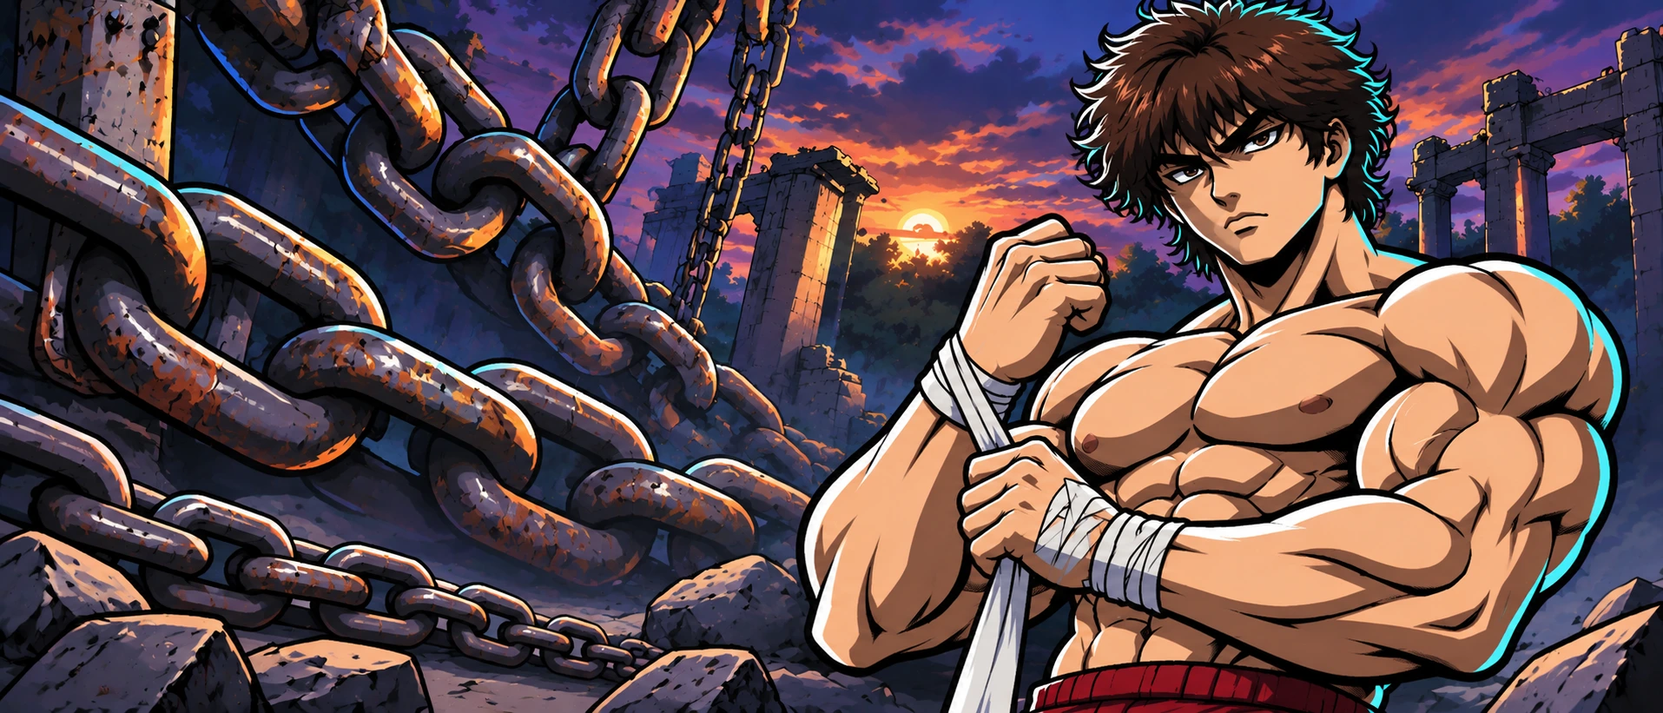
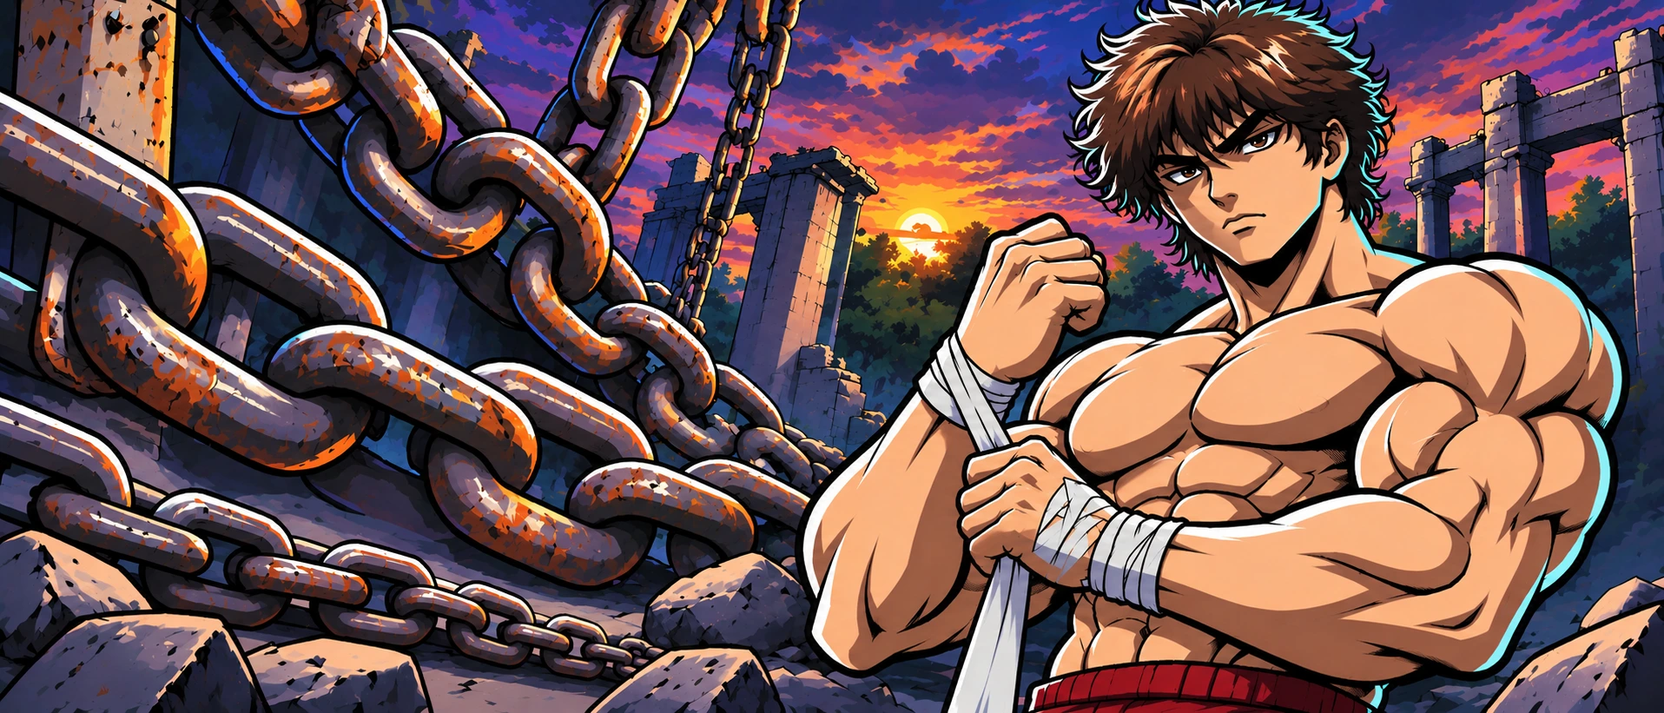
fix hero and website color theme

diff --git a/styles/site.css b/styles/site.css
@@ -1,13 +1,15 @@
 :root {
   color-scheme: dark;
-  --bg: #08090c;
-  --surface: #111318;
-  --surface-2: #191c24;
-  --text: #f5f5f7;
-  --muted: #a8afbd;
-  --accent: #456bfa;
-  --ice: #96c9ff;
-  --line: rgb(165 185 221 / 16%);
+  --bg: #070911;
+  --surface: #101423;
+  --surface-2: #171d32;
+  --text: #f5f7ff;
+  --muted: #a6b2cc;
+  --accent: #3f46f5;
+  --cyan: #25e8ff;
+  --violet: #a82ffc;
+  --ice: #6be8ff;
+  --line: rgb(115 170 255 / 18%);
   --mono: ui-monospace, SFMono-Regular, Consolas, "Liberation Mono", monospace;
   --header-height: 70px;
   font-family: "IBM Plex Sans Thai", "Segoe UI", "Noto Sans Thai", "Leelawadee UI", sans-serif;
@@ -29,15 +31,15 @@ img { display: block; max-width: 100%; }
 h1, h2, h3, p { margin: 0; }
 h1, h2, h3 { line-height: 1.08; }
 [hidden] { display: none !important; }
-:focus-visible { outline: 2px solid #b1d8ff; outline-offset: 4px; }
+:focus-visible { outline: 2px solid var(--cyan); outline-offset: 4px; }
 :is(main, h1, h2, section)[tabindex="-1"]:focus { outline: none; }
-::selection { background: #38549c; color: white; }
+::selection { background: #6b2cf5; color: white; }
 .wrap { width: min(89%, 1320px); margin-inline: auto; }
 .skip, .sr-only { position: absolute; width: 1px; height: 1px; padding: 0; overflow: hidden; clip-path: inset(50%); white-space: nowrap; }
-.skip:focus { clip-path: none; width: auto; height: auto; top: 6px; left: 10px; padding: 8px 16px; border-radius: 4px; background: #18213c; z-index: 30; }
+.skip:focus { clip-path: none; width: auto; height: auto; top: 6px; left: 10px; padding: 8px 16px; border-radius: 4px; background: #1c2247; z-index: 30; }
 .icon { width: 1.12rem; height: 1.12rem; display: inline-block; flex: none; fill: none; stroke: currentColor; stroke-width: 1.65; stroke-linecap: round; stroke-linejoin: round; }
-.site-header { position: sticky; top: 0; z-index: 10; background: rgb(8 10 15 / 96%); border-bottom: 1px solid rgb(164 182 217 / 10%); transition: background .25s; }
-.site-header.scrolled { background: rgb(8 10 15 / 93%); backdrop-filter: blur(16px); }
+.site-header { position: sticky; top: 0; z-index: 10; background: rgb(7 9 18 / 95%); border-bottom: 1px solid rgb(70 185 255 / 15%); transition: background .25s; }
+.site-header.scrolled { background: rgb(7 9 18 / 92%); backdrop-filter: blur(16px); }
 .header-inner { height: var(--header-height); display: grid; grid-template-columns: 1fr auto 1fr; align-items: center; gap: 20px; }
 .brand { display: inline-flex; align-items: center; gap: 10px; justify-self: start; width: fit-content; font-size: 1.42rem; line-height: 1; letter-spacing: -.06em; font-weight: 690; }
 .brand img { width: 56px; height: 52px; object-fit: contain; }
@@ -52,41 +54,41 @@ h1, h2, h3 { line-height: 1.08; }
 .primary-nav { gap: clamp(20px, 2.7vw, 44px); height: 100%; }
 .primary-nav a { position: relative; height: 100%; display: flex; align-items: center; font-size: .88rem; font-weight: 520; color: #a0a5b1; transition: color .2s; }
 .primary-nav a:hover, .primary-nav a[aria-current] { color: var(--text); }
-.primary-nav a[aria-current]::after { content: ""; width: 18px; height: 2px; background: #709aff; position: absolute; bottom: 12px; left: calc(50% - 9px); border-radius: 2px; }
+.primary-nav a[aria-current]::after { content: ""; width: 22px; height: 2.5px; background: linear-gradient(90deg, var(--cyan), var(--violet)); position: absolute; bottom: 12px; left: calc(50% - 11px); border-radius: 2px; box-shadow: 0 0 10px rgb(37 232 255 / 45%); }
 .header-actions { gap: 6px; justify-self: end; }
-.search-shortcut { display: inline-flex; align-items: center; justify-content: center; min-height: 36px; padding: 4px 8px 4px 12px; gap: 9px; border: 1px solid var(--line); background: #101217; border-radius: 6px; color: #c8cbd4; font-size: .82rem; }
-.search-shortcut:hover { border-color: #53607a; }
-.search-shortcut .icon { width: 15px; height: 15px; }
-.search-shortcut kbd { display: grid; place-items: center; min-width: 18px; height: 21px; border: 1px solid #353844; border-radius: 3px; color: #a6acb8; font: .75rem var(--mono); }
+.search-shortcut { display: inline-flex; align-items: center; justify-content: center; min-height: 36px; padding: 4px 8px 4px 12px; gap: 9px; border: 1px solid var(--line); background: #0d1222; border-radius: 6px; color: #cfd8ec; font-size: .82rem; transition: border-color .2s, box-shadow .2s; }
+.search-shortcut:hover { border-color: var(--cyan); box-shadow: 0 0 12px rgb(37 232 255 / 18%); }
+.search-shortcut .icon { width: 15px; height: 15px; color: var(--cyan); }
+.search-shortcut kbd { display: grid; place-items: center; min-width: 18px; height: 21px; border: 1px solid #2e3a5c; border-radius: 3px; color: #9ab2d8; font: .75rem var(--mono); }
 .icon-btn { display: grid; place-items: center; width: 44px; height: 44px; }
 .menu-toggle { display: none; }
 section[id], #main-content { scroll-margin-top: var(--header-height); }
-.hero { position: relative; overflow: hidden; isolation: isolate; background: #0c1420; border-bottom: 1px solid var(--line); }
+.hero { position: relative; overflow: hidden; isolation: isolate; background: #0a1022; border-bottom: 1px solid var(--line); }
 .hero-art, .hero-shade { position: absolute; inset: 0; z-index: -1; pointer-events: none; }
 .hero-art img { width: 100%; height: 100%; object-fit: cover; object-position: 64% 30%; animation: artwork-in .48s ease-out both; }
-.hero-shade { background: linear-gradient(0deg, rgb(7 10 16 / 95%) 0%, rgb(7 10 16 / 34%) 16%, transparent 44%), linear-gradient(90deg, rgb(5 9 16 / 94%) 0%, rgb(6 11 20 / 83%) 25%, rgb(6 12 22 / 45%) 44%, rgb(6 12 22 / 4%) 65%, transparent 88%); }
+.hero-shade { background: linear-gradient(0deg, rgb(7 9 17 / 96%) 0%, rgb(7 9 17 / 36%) 18%, transparent 46%), linear-gradient(90deg, rgb(6 8 18 / 95%) 0%, rgb(8 11 26 / 84%) 26%, rgb(10 14 32 / 46%) 45%, rgb(10 14 32 / 5%) 66%, transparent 88%); }
 .hero-inner { min-height: clamp(500px, 36.8vw, 670px); display: flex; flex-direction: column; position: relative; }
 .hero-copy { flex: 1 0 auto; display: flex; flex-direction: column; justify-content: center; align-items: flex-start; padding: clamp(42px, 3.4vw, 74px) 0 30px; animation: copy-in .55s ease-out both; }
 .eyebrow, .mono-caption, .scroll-cue, .card-meta, .result-count { font-family: var(--mono); }
-.eyebrow { display: flex; align-items: center; gap: 11px; color: #93b7fc; font-size: .74rem; font-weight: 590; line-height: 1.4; letter-spacing: .135em; text-transform: uppercase; }
-.rule { display: inline-block; width: 26px; height: 2px; border-radius: 3px; background: #699aff; }
-.hero-kicker { color: #a5caff; }
-.hero-kicker .divider-slash { opacity: .6; font-weight: 400; }
-.hero h1 { margin-top: 20px; font-size: clamp(4.5rem, 6.35vw, 7.3rem); line-height: .99; font-weight: 650; letter-spacing: -.066em; color: #f5f6f7; }
-.hero h1 span { color: #99beff; background: linear-gradient(105deg,#cbd9ff -4%,#95baff 46%,#709be9 100%); background-clip: text; -webkit-background-clip: text; -webkit-text-fill-color: transparent; }
+.eyebrow { display: flex; align-items: center; gap: 11px; color: var(--cyan); font-size: .74rem; font-weight: 590; line-height: 1.4; letter-spacing: .135em; text-transform: uppercase; }
+.rule { display: inline-block; width: 26px; height: 2.5px; border-radius: 3px; background: linear-gradient(90deg, var(--cyan), var(--violet)); }
+.hero-kicker { color: #74eeff; }
+.hero-kicker .divider-slash { color: #c06bff; opacity: .9; font-weight: 600; }
+.hero h1 { margin-top: 20px; font-size: clamp(4.5rem, 6.35vw, 7.3rem); line-height: .99; font-weight: 650; letter-spacing: -.066em; color: #f5f7ff; }
+.hero h1 span { color: #74eeff; background: linear-gradient(100deg, #ffffff 0%, #6be8ff 34%, #4f6bff 62%, #b742ff 100%); background-clip: text; -webkit-background-clip: text; -webkit-text-fill-color: transparent; filter: drop-shadow(0 2px 18px rgb(168 47 252 / 24%)); }
 .hero h1:lang(th) { line-height: 1.12; letter-spacing: -.025em; }
 .hero h1 { font-weight: 700; }
 .mono-caption, .concept-note { font-family: "IBM Plex Sans Thai", var(--mono); }
 .hero h1 span:lang(en) { letter-spacing: -.066em; }
 .about h2:lang(th) { line-height: 1.25; letter-spacing: -.02em; }
-.hero-description { max-width: 465px; margin-top: 20px; color: #c3cad5; font-size: clamp(1rem, 1.17vw, 1.23rem); line-height: 1.6; }
+.hero-description { max-width: 465px; margin-top: 20px; color: #c7d2e8; font-size: clamp(1rem, 1.17vw, 1.23rem); line-height: 1.6; }
 .hero-actions { display: flex; flex-wrap: wrap; gap: 12px; margin-top: 25px; }
-.btn { display: inline-flex; align-items: center; justify-content: center; gap: 10px; min-height: 45px; padding: 10px 19px; border-radius: 6px; border: 1px solid transparent; font-weight: 600; font-size: .91rem; line-height: 1.4; transition: background .18s, border-color .18s, transform .18s; }
+.btn { display: inline-flex; align-items: center; justify-content: center; gap: 10px; min-height: 45px; padding: 10px 19px; border-radius: 6px; border: 1px solid transparent; font-weight: 600; font-size: .91rem; line-height: 1.4; transition: background .18s, border-color .18s, transform .18s, box-shadow .18s; }
 .btn .icon { width: 16px; height: 16px; }
-.btn-primary { color: #fff; border-color: #6482ff; background: linear-gradient(140deg, #526ff8, #3855dd); box-shadow: 0 3px 18px rgb(42 77 213 / 15%); }
-.btn-primary:hover { background: linear-gradient(140deg,#6383ff,#4866ec); }
-.btn-secondary { color: #eef1f8; border-color: #4f596b; background: rgb(21 28 40 / 67%); }
-.btn-secondary:hover { background: #232d40; border-color: #8291ad; }
+.btn-primary { color: #fff; border-color: #4dcfff; background: linear-gradient(135deg, #1cb5f6 0%, #4348f7 52%, #9d2efc 100%); box-shadow: 0 4px 20px rgb(79 72 247 / 32%), 0 0 12px rgb(37 232 255 / 18%); }
+.btn-primary:hover { border-color: #8cf2ff; background: linear-gradient(135deg, #37c5ff 0%, #555af9 50%, #b147ff 100%); box-shadow: 0 6px 24px rgb(157 46 252 / 42%), 0 0 16px rgb(37 232 255 / 28%); }
+.btn-secondary { color: #eef4ff; border-color: rgb(88 184 255 / 42%); background: rgb(16 22 42 / 72%); }
+.btn-secondary:hover { background: #1a2547; border-color: var(--cyan); box-shadow: 0 0 14px rgb(37 232 255 / 20%); }
 .hero-base { display: flex; align-items: flex-end; justify-content: space-between; gap: 16px; padding: 0 0 25px; }
 .scroll-cue { display: inline-flex; align-items: center; gap: 10px; min-height: 38px; font-size: .69rem; text-transform: uppercase; letter-spacing: .13em; color: #b0b9ca; }
 .scroll-cue:hover { color: #eaf1ff; }
@@ -106,40 +108,40 @@ section[id], #main-content { scroll-margin-top: var(--header-height); }
 .section-space { padding: clamp(46px, 3.7vw, 68px) 0 clamp(50px, 4.6vw, 90px); }
 .section-heading { display: flex; justify-content: space-between; align-items: flex-end; gap: 20px; margin-bottom: 24px; }
 .section-heading h2, .about h2 { font-size: clamp(2.25rem, 3.05vw, 3.6rem); font-weight: 610; letter-spacing: -.055em; margin-top: 8px; }
-.period { color: #769afb; }
-.text-link { display: inline-flex; align-items: center; justify-content: center; min-height: 40px; gap: 9px; font-size: .88rem; color: #c2c9d7; font-weight: 520; }
-.text-link .icon { width: 15px; height: 15px; color: #94add3; }
+.period { color: var(--violet); }
+.text-link { display: inline-flex; align-items: center; justify-content: center; min-height: 40px; gap: 9px; font-size: .88rem; color: #c8d4ec; font-weight: 520; }
+.text-link .icon { width: 15px; height: 15px; color: var(--cyan); }
 .text-link:hover { color: #fff; text-decoration: underline; text-underline-offset: 5px; }
 .feature-grid, .archive-grid { display: grid; grid-template-columns: repeat(3, minmax(0, 1fr)); gap: clamp(18px, 1.8vw, 32px); row-gap: 40px; }
 .mod-card, .mod-card a { min-width: 0; }
 .card-link { display: block; border-radius: 8px; }
 .card-visual { aspect-ratio: 1.88; position: relative; overflow: hidden; isolation: isolate; border-radius: 9px; background: var(--surface-2); box-shadow: inset 0 0 0 1px var(--line); }
-.card-visual::after { content: ""; position: absolute; inset: 0; pointer-events: none; border-radius: inherit; border: 1px solid rgb(223 233 255 / 14%); background: linear-gradient(180deg, rgb(5 8 12 / 16%), transparent 33%, transparent 65%, rgb(5 8 12 / 25%)); transition: background-color .25s; }
+.card-visual::after { content: ""; position: absolute; inset: 0; pointer-events: none; border-radius: inherit; border: 1px solid rgb(120 215 255 / 18%); background: linear-gradient(180deg, rgb(6 9 18 / 16%), transparent 33%, transparent 65%, rgb(6 9 18 / 28%)); transition: background-color .25s, border-color .25s; }
 .card-visual img { width: 100%; height: 100%; object-fit: cover; transition: transform .5s cubic-bezier(.2,.74,.35,1); }
-.category-tag { position: absolute; z-index: 1; top: 13px; left: 13px; display: inline-flex; align-items: center; gap: 6px; max-width: calc(100% - 26px); padding: 4px 9px; border: 1px solid rgb(240 245 255 / 22%); border-radius: 4px; color: #f4f6fb; background: rgb(9 12 19 / 80%); font: 550 .66rem/1.5 var(--mono); letter-spacing: .06em; text-transform: uppercase; }
-.category-tag .icon { width: 12px; height: 12px; }
+.category-tag { position: absolute; z-index: 1; top: 13px; left: 13px; display: inline-flex; align-items: center; gap: 6px; max-width: calc(100% - 26px); padding: 4px 9px; border: 1px solid rgb(37 232 255 / 38%); border-radius: 4px; color: #eaffff; background: rgb(8 12 24 / 84%); font: 550 .66rem/1.5 var(--mono); letter-spacing: .06em; text-transform: uppercase; box-shadow: 0 2px 10px rgb(0 0 0 / 35%); }
+.category-tag .icon { width: 12px; height: 12px; color: var(--cyan); }
 .card-info { padding: 15px 1px 0; }
-.card-meta { display: flex; align-items: center; flex-wrap: wrap; gap: 5px 9px; margin-bottom: 8px; color: #a6afc1; font-size: .72rem; letter-spacing: .02em; }
+.card-meta { display: flex; align-items: center; flex-wrap: wrap; gap: 5px 9px; margin-bottom: 8px; color: #a6b4cc; font-size: .72rem; letter-spacing: .02em; }
 .card-meta:empty { display: none; }
 .card-meta > span + span { display: inline-flex; align-items: center; }
-.card-meta > span + span::before { content: ""; width: 3px; height: 3px; margin-right: 9px; background: #788294; border-radius: 100%; }
-.featured-label { color: #adbeff; display: inline-flex; align-items: center; gap: 5px; }
-.featured-label .icon { width: 12px; height: 12px; }
-.mod-card h3 { color: #f3f4f8; font-size: clamp(1.3rem, 1.62vw, 1.85rem); font-weight: 600; letter-spacing: -.04em; line-height: 1.18; overflow-wrap: anywhere; }
+.card-meta > span + span::before { content: ""; width: 3px; height: 3px; margin-right: 9px; background: #7888a8; border-radius: 100%; }
+.featured-label { color: #d188ff; display: inline-flex; align-items: center; gap: 5px; }
+.featured-label .icon { width: 12px; height: 12px; color: var(--cyan); }
+.mod-card h3 { color: #f3f6ff; font-size: clamp(1.3rem, 1.62vw, 1.85rem); font-weight: 600; letter-spacing: -.04em; line-height: 1.18; overflow-wrap: anywhere; }
 .card-description { font-size: 1rem; color: var(--muted); margin-top: 7px; line-height: 1.5; }
 .card-facts { display: none; }
-.card-cta .icon { width: 14px; height: 14px; margin-right: 7px; vertical-align: -.14em; }
-.card-cta { display: inline-block; margin-top: 12px; color: #a4c2ff; font-size: .85rem; font-weight: 550; }
-.card-link:hover .card-cta { text-decoration: underline; text-underline-offset: 4px; }
+.card-cta .icon { width: 14px; height: 14px; margin-right: 7px; vertical-align: -.14em; color: var(--cyan); }
+.card-cta { display: inline-block; margin-top: 12px; color: #79ecff; font-size: .85rem; font-weight: 550; }
+.card-link:hover .card-cta { color: #d896ff; text-decoration: underline; text-underline-offset: 4px; }
 @media (hover: hover) {
   .card-link:hover .card-visual img, .card-link:focus-visible .card-visual img { transform: scale(1.035); }
-  .card-link:hover .card-visual::after { background-color: rgb(90 129 255 / 7%); }
+  .card-link:hover .card-visual::after { background-color: rgb(168 47 252 / 8%); border-color: rgb(37 232 255 / 42%); }
 }
-.explore { border-block: 1px solid var(--line); background: #0d0f15; }
+.explore { border-block: 1px solid var(--line); background: #0a0e1b; }
 .library-tools { display: flex; flex-wrap: wrap; align-items: stretch; gap: 12px; }
-.search-field, .select-field { min-height: 46px; display: flex; align-items: center; gap: 10px; padding-inline: 14px; border: 1px solid #343946; border-radius: 5px; background: var(--surface); color: #c2c9d6; }
+.search-field, .select-field { min-height: 46px; display: flex; align-items: center; gap: 10px; padding-inline: 14px; border: 1px solid #293452; border-radius: 5px; background: var(--surface); color: #c7d2e6; transition: border-color .2s; }
 .search-field { flex: 1 1 280px; }
-.search-field:focus-within, .select-field:focus-within { border-color: #8faaf4; outline: 1px solid #8faaf4; }
+.search-field:focus-within, .select-field:focus-within { border-color: var(--cyan); outline: 1px solid var(--cyan); box-shadow: 0 0 14px rgb(37 232 255 / 16%); }
 .search-field input { width: 100%; min-width: 0; height: 44px; padding: 0; border: 0; outline: none; background: transparent; font-size: 1rem; color: var(--text); }
 .search-field input::placeholder { color: #949dac; }
 .select-field { padding-right: 0; position: relative; gap: 0; }
@@ -243,8 +245,13 @@ section[id], #main-content { scroll-margin-top: var(--header-height); }
 }
 
 /* The library shares one layout for a single release and a filtered result. */
+.featured {
+  background: radial-gradient(ellipse at 14% 0%, rgb(63 70 245 / 12%), transparent 52%),
+              radial-gradient(ellipse at 88% 100%, rgb(168 47 252 / 10%), transparent 50%);
+}
 .explore {
-  background: radial-gradient(ellipse at 86% 5%, rgb(43 104 119 / 11%), transparent 48%), #0b0e13;
+  background: radial-gradient(ellipse at 86% 5%, rgb(37 232 255 / 12%), transparent 48%),
+              radial-gradient(ellipse at 12% 95%, rgb(168 47 252 / 10%), transparent 50%), #090c17;
 }
 .archive-toolbar {
   display: flex; align-items: flex-end; justify-content: space-between;
@@ -252,9 +259,9 @@ section[id], #main-content { scroll-margin-top: var(--header-height); }
 }
 .archive-toolbar .section-heading { margin: 0; }
 .archive-toolbar h2 { font-size: clamp(2.65rem, 4.7vw, 4.35rem); }
-.archive-toolbar .eyebrow { color: #91d7de; }
-.archive-toolbar .rule { background: #75d6de; }
-.archive-toolbar .period { color: #81dbe3; }
+.archive-toolbar .eyebrow { color: var(--cyan); }
+.archive-toolbar .rule { background: linear-gradient(90deg, var(--cyan), var(--violet)); }
+.archive-toolbar .period { color: var(--cyan); }
 .archive-toolbar .library-tools { max-width: 100%; gap: 8px; }
 .archive-toolbar .search-field { flex: 1 1 218px; min-width: 0; }
 .result-count { margin: 16px 0 12px; font-family: inherit; font-size: .85rem; }
@@ -329,11 +336,11 @@ section[id], #main-content { scroll-margin-top: var(--header-height); }
   max-height: calc(100vh - 16px);
   box-sizing: border-box;
   overflow: hidden;
-  border: 1px solid #b7884e;
+  border: 1px solid rgb(37 232 255 / 55%);
   border-radius: 12px;
-  background: linear-gradient(120deg, #211c1b, #231518);
-  color: #f4e8d9;
-  box-shadow: 0 10px 32px #000a, 0 0 12px #d156332b;
+  background: linear-gradient(135deg, #0e1326, #191230);
+  color: #f0f6ff;
+  box-shadow: 0 12px 34px #000b, 0 0 18px rgb(37 232 255 / 22%), 0 0 24px rgb(168 47 252 / 18%);
   opacity: 0;
   visibility: hidden;
   transition: opacity .16s ease, visibility 0s .16s;
@@ -342,7 +349,7 @@ section[id], #main-content { scroll-margin-top: var(--header-height); }
   width: min(27rem, calc(100vw - 20px), calc(100vh - 140px));
 }
 .cursor-preview.visible { opacity: 1; visibility: visible; transition-delay: 0s; }
-.cursor-preview video { display: block; width: 100%; aspect-ratio: 2.39; object-fit: cover; background: #090909; }
+.cursor-preview video { display: block; width: 100%; aspect-ratio: 2.39; object-fit: cover; background: #060812; }
 .cursor-preview.is-skill video { aspect-ratio: 1 / 1; object-fit: cover; }
 .cursor-preview p { margin: 12px 15px; font-size: .92rem; line-height: 1.5; display: -webkit-box; -webkit-line-clamp: 4; -webkit-box-orient: vertical; overflow: hidden; }
 @media (prefers-reduced-motion: reduce) { .cursor-preview { transition: none; } }
@@ -350,13 +357,13 @@ section[id], #main-content { scroll-margin-top: var(--header-height); }
   .cursor-preview { display: none !important; }
 }
 
-.cursor-preview strong:not([hidden]) { display: block; margin: 12px 15px 0; color: #ffe0aa; }
+.cursor-preview strong:not([hidden]) { display: block; margin: 12px 15px 0; color: #6be8ff; }
 .cursor-preview strong:not([hidden]) + p { display: block; margin-top: 4px; }
 .cursor-preview video[hidden] { display: none; }
 
 /* Keep spotlight navigation visible against either character artwork. */
-.hero-controls .round { width: 48px; height: 48px; border: 2px solid #d6e6ff; border-radius: 50%; background: #111b2e; color: white; box-shadow: 0 2px 10px #0008; }
-.hero-controls .round:hover { background: #33476a; }
+.hero-controls .round { width: 48px; height: 48px; border: 2px solid #5be8ff; border-radius: 50%; background: linear-gradient(135deg, rgb(16 24 48 / 88%), rgb(42 20 78 / 88%)); color: white; box-shadow: 0 2px 14px #000a, 0 0 12px rgb(37 232 255 / 25%); }
+.hero-controls .round:hover { border-color: #d68fff; background: linear-gradient(135deg, #214080, #62229c); box-shadow: 0 4px 18px rgb(168 47 252 / 40%); }
 .hero-controls .round .icon { width: 24px; height: 24px; }
 @media (min-width: 1000px) {
   .hero-inner { position: static; }

diff --git a/styles/motion.css b/styles/motion.css
@@ -14,26 +14,28 @@
   .hero-description { animation-delay: 125ms; }
   .hero-actions { animation-delay: 185ms; }
   .hero-base { animation: arrive .55s .24s ease-out backwards; }
-  .hero .rule { background: var(--scene-color, var(--ice)); transition: background .5s; }
+  .hero .rule { background: linear-gradient(90deg, var(--cyan, #25e8ff), var(--scene-color, #4f6bff), var(--violet, #a82ffc)); transition: background .5s; }
   .hero h1 span {
-    background-image: linear-gradient(105deg, #d8e5ff, var(--scene-color, #95baff) 50%, #9aaaf9);
+    background-image: linear-gradient(100deg, #ffffff 0%, #6be8ff 32%, var(--scene-color, #4f6bff) 62%, #b742ff 100%);
   }
   .hero-atmosphere {
     display: block; position: absolute; inset: 0; z-index: 0;
-    overflow: hidden; pointer-events: none; color: var(--scene-color, var(--ice));
+    overflow: hidden; pointer-events: none; color: var(--scene-color, var(--cyan, #25e8ff));
   }
   .hero-atmosphere i {
     position: absolute; width: var(--size, 3.5px); height: var(--size, 3.5px); border-radius: 50%;
-    background: #fff6e5;
-    box-shadow: 0 0 6px 1px #ffb347, 0 0 14px 3px currentColor;
+    background: #effcff;
+    box-shadow: 0 0 6px 1px #25e8ff, 0 0 14px 3px currentColor;
     opacity: 0; animation: drift-light 4.2s ease-in-out infinite;
   }
   .hero-atmosphere i:nth-child(3n) {
     width: calc(var(--size, 3.5px) * 0.75); height: calc(var(--size, 3.5px) * 1.7); border-radius: 70%;
+    background: #f5d9ff;
+    box-shadow: 0 0 7px 1px #b742ff, 0 0 16px 3px #4348f7;
   }
   .hero-atmosphere i:nth-child(2n) {
     background: currentColor;
-    box-shadow: 0 0 8px 2px currentColor, 0 0 16px 3px #ff7b2980;
+    box-shadow: 0 0 8px 2px currentColor, 0 0 16px 3px #a82ffc90;
   }
   .scroll-cue .icon { animation: scroll-hint 1.45s .7s 2 ease-in-out; }
   .btn, .round, .detail-icon-btn, .detail-download {
@@ -78,11 +80,11 @@
     content: ""; position: absolute; inset: 0; z-index: 1;
     border-radius: inherit; pointer-events: none; opacity: 0; transition: opacity .24s;
     background: radial-gradient(ellipse at var(--light-x, 50%) var(--light-y, 50%),
-      color-mix(in srgb, var(--scene-color, #a1c6ff) 26%, transparent), transparent 64%);
+      color-mix(in srgb, var(--scene-color, #25e8ff) 28%, transparent), transparent 64%);
   }
   .card-visual:hover::before { opacity: 1; }
   .card-link:is(:hover,:focus-visible) .card-visual {
-    box-shadow: 0 10px 25px -14px color-mix(in srgb, var(--scene-color, #89aaff) 48%, transparent);
+    box-shadow: 0 12px 28px -12px color-mix(in srgb, var(--scene-color, #25e8ff) 45%, #a82ffc40);
   }
   .round:hover, .btn:hover, .detail-download:hover { transform: translateY(-2px); }
   .round:active, .btn:active, .detail-download:active { transform: scale(.96); }
@@ -91,9 +93,9 @@
 @supports (animation-timeline: scroll()) {
   @media (prefers-reduced-motion: no-preference) {
     .site-header::after {
-      content: ""; position: absolute; inset: auto 0 -1px; height: 2px; pointer-events: none;
+      content: ""; position: absolute; inset: auto 0 -1px; height: 2.5px; pointer-events: none;
       transform-origin: left; transform: scaleX(0);
-      background: linear-gradient(90deg, #597df8 0%, #91d8ff 65%, #b69bff 100%);
+      background: linear-gradient(90deg, #25e8ff 0%, #4348f7 50%, #b742ff 100%);
       animation: reading-progress linear both;
       animation-timeline: scroll(root block);
     }

diff --git a/index.html b/index.html
@@ -9,8 +9,8 @@
   </script>
   <meta charset="utf-8">
   <meta name="viewport" content="width=device-width, initial-scale=1">
-  <meta name="theme-color" content="#08090c">
-  <meta name="description" content="เกรียนมอด คลังม็อด Heroes of Newerth สำหรับผู้เล่นไทย รวมสกินฮีโร่ เอฟเฟกต์สกิล และธีมแผนที่">
+  <meta name="theme-color" content="#070911">
+  <meta name="description" content="เกรียนมอด คลังม็อด Heroes of Newerth">
   <meta property="og:type" content="website">
   <meta property="og:title" content="GodMian · เกรียนมอด | Heroes of Newerth">
   <meta property="og:description" content="ชมภาพตัวอย่างและดาวน์โหลดม็อด Heroes of Newerth จากชุมชนแฟนเกม">
@@ -110,7 +110,7 @@
       <section id="about" class="about section-space" aria-labelledby="about-title">
         <div class="wrap about-inner">
           <div><p class="eyebrow"><span class="rule"></span>About GodMian</p><h2 id="about-title">จากแฟนเกม HoN<span class="period">.</span></h2></div>
-          <p>เกรียนมอดเป็นพื้นที่รวมผลงานแต่งภาพในเกม Heroes of Newerth ตั้งแต่สกินฮีโร่ไปจนถึงบรรยากาศของแผนที่ ให้แฟนเกมได้ชมและลองใช้เมื่อมีไฟล์ให้ดาวน์โหลด</p>
+          <p>เกรียนมอดเป็นพื้นที่รวมผลงานแต่งภาพในเกม Heroes of Newerth ให้แฟนเกมได้ชมและลองใช้เมื่อมีไฟล์ให้ดาวน์โหลด</p>
         </div>
       </section>
     </div>

diff --git a/styles/detail.css b/styles/detail.css
@@ -27,8 +27,8 @@
   border-radius: .65rem;
   background: var(--surface, #111318);
 }
-.detail-labels { display: flex; flex-wrap: wrap; align-items: center; gap: .7rem; color: #a7c9ff; font: 600 .75rem/1.5 ui-monospace, Consolas, monospace; text-transform: uppercase; letter-spacing: .1em; }
-.detail-concept { border-left: 1px solid var(--line, #343843); padding-left: .7rem; color: var(--muted, #aab0bb); }
+.detail-labels { display: flex; flex-wrap: wrap; align-items: center; gap: .7rem; color: var(--cyan, #25e8ff); font: 600 .75rem/1.5 ui-monospace, Consolas, monospace; text-transform: uppercase; letter-spacing: .1em; }
+.detail-concept { border-left: 1px solid var(--line, #343843); padding-left: .7rem; color: #d58cff; }
 .detail-layout .detail-title { font-size: clamp(2.5rem, 4.8vw, 5.25rem); line-height: .99; letter-spacing: -.055em; margin: .8rem 0 1.05rem; }
 .detail-lead, .detail-section p, .detail-text-list { font-size: 1rem; line-height: 1.7; color: var(--muted, #aab0bb); }
 .detail-lead { max-width: 44ch; margin: 0; }
@@ -52,12 +52,12 @@
   font-size: .91rem;
   font-weight: 600;
   border-radius: 6px;
-  box-shadow: 0 4px 20px rgb(56 85 221 / 22%);
+  box-shadow: 0 4px 20px rgb(79 72 247 / 32%), 0 0 14px rgb(37 232 255 / 20%);
 }
 .detail-download svg { width: 16px; height: 16px; }
 .detail-download:hover {
-  border-color: #82a0ff;
-  box-shadow: 0 6px 24px rgb(72 102 236 / 30%);
+  border-color: #8cf2ff;
+  box-shadow: 0 6px 26px rgb(168 47 252 / 42%), 0 0 18px rgb(37 232 255 / 30%);
 }
 .detail-section { border-top: 1px solid var(--line, #343843); margin-top: clamp(2rem, 4.5vw, 4.5rem); padding-top: clamp(1.4rem, 3vw, 2.6rem); }
 .detail-section h2 { margin: 0 0 .95rem; font-size: clamp(1.45rem, 2.4vw, 2.3rem); line-height: 1.13; letter-spacing: -.04em; }
